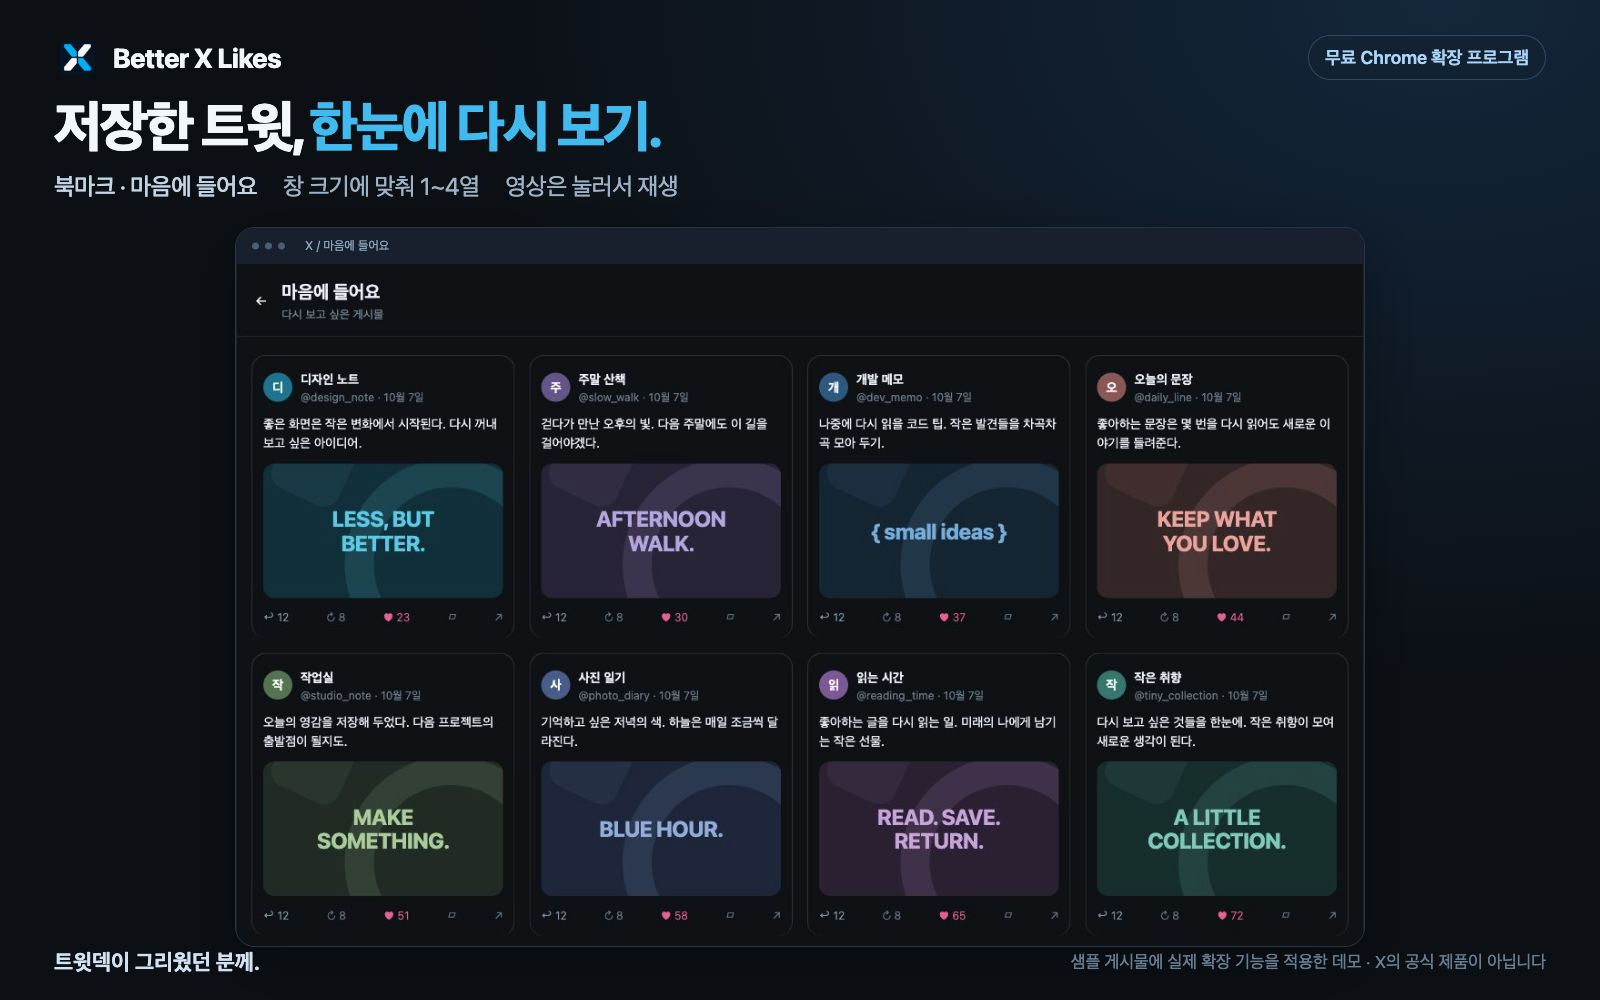
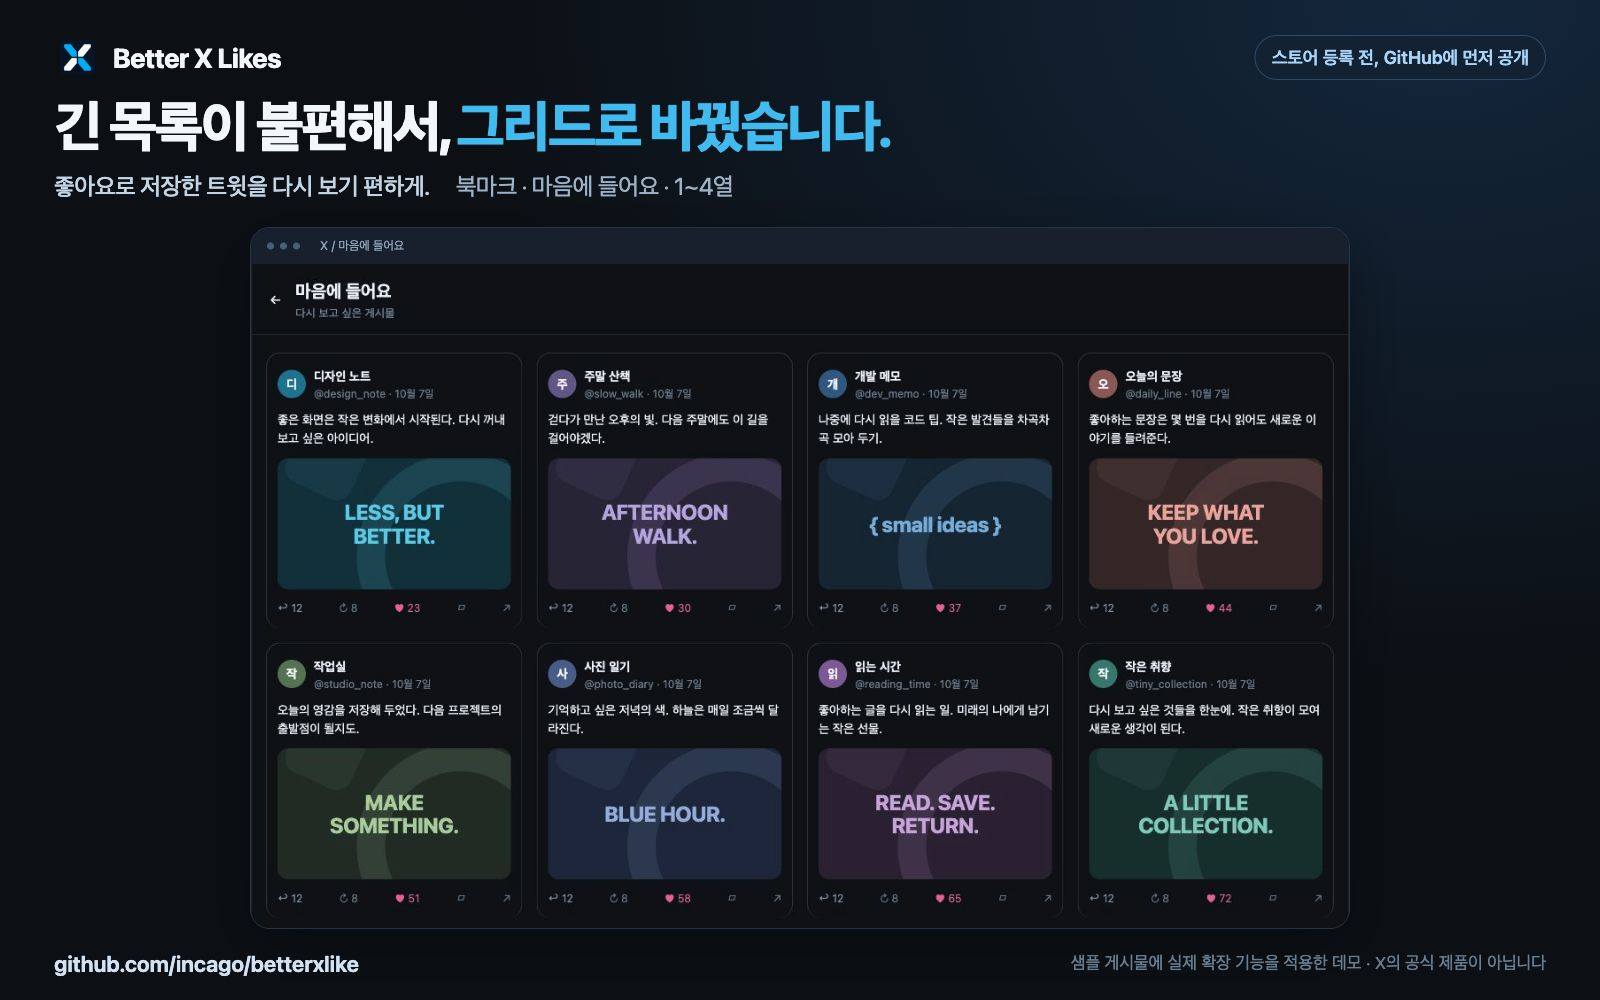
Focus preview announcement on motivation and GitHub sharing

diff --git a/marketing/x-launch/index.html b/marketing/x-launch/index.html
@@ -1,7 +1,7 @@
 <!doctype html>
 <html lang="ko">
 <meta charset="utf-8">
-<title>Better X Likes — X 출시 소개 이미지</title>
+<title>Better X Likes — GitHub 사전 공개 소개 이미지</title>
 <style>
 *{box-sizing:border-box}body{margin:0;background:#090e16;color:#f4f8fc;font-family:-apple-system,BlinkMacSystemFont,"Apple SD Gothic Neo",sans-serif}
 .artboard{width:1600px;height:1000px;padding:34px 54px;position:relative;overflow:hidden;background:radial-gradient(ellipse at 90% 0,#142b45 0,transparent 48%),#090e16}
@@ -9,7 +9,7 @@
 h1{margin:13px 0 10px;font-size:56px;line-height:1.14;letter-spacing:-2.5px;font-weight:750}h1 span{color:#4dc1f4}.sub{font-size:24px;line-height:1.5;color:#a8bacf;margin:0;letter-spacing:-.4px}
 .window{border:1px solid #2c3b4e;border-radius:20px;overflow:hidden;box-shadow:0 18px 60px #0005;background:#080c12}.bar{height:36px;display:flex;align-items:center;gap:6px;padding:0 16px;background:#182333;color:#98aec6;font-size:12px}.dot{width:7px;height:7px;border-radius:50%;background:#526b84}.address{margin-left:14px}
 .window img{width:100%;display:block}.footer{position:absolute;left:54px;right:54px;bottom:24px;display:flex;align-items:center;justify-content:space-between;color:#73899f;font-size:17px}.footer strong{font-size:22px;color:#d8e6f5;font-weight:650}
-.hero .window{width:1130px;margin:23px auto 0}.hero .sub{display:flex;gap:26px}.hero .sub b{color:#cad9e9;font-weight:500}
+.hero .window{width:1100px;margin:23px auto 0}.hero .sub{display:flex;gap:26px}.hero .sub b{color:#cad9e9;font-weight:500}
 .comparison h1,.responsive h1{margin-top:20px}.comparison .panels{display:grid;grid-template-columns:450px 1fr;gap:32px;margin-top:32px}
 .label{display:flex;align-items:center;gap:14px;margin-bottom:14px;font-size:24px;font-weight:700;letter-spacing:-.6px}.label small{color:#8dabc8;font-size:18px;font-weight:500}.label .blue{color:#4dc1f4}
 .comparison .window{height:648px}.comparison .window img{min-height:100%;object-fit:cover;object-position:left top}.comparison .window.grid img{min-height:0}.comparison .sub{font-size:23px}
@@ -18,32 +18,32 @@ h1{margin:13px 0 10px;font-size:56px;line-height:1.14;letter-spacing:-2.5px;font
 .responsive .caption{margin-top:14px;color:#a8bacf;font-size:18px}.responsive .window.small img{width:100%}
 </style>
 <main class="artboard hero" data-slide="hero">
- <div class="brand"><img src="/icons/icon-128.png" alt="">Better X Likes<span class="badge">무료 Chrome 확장 프로그램</span></div>
- <h1>저장한 트윗, <span>한눈에 다시 보기.</span></h1>
- <p class="sub"><b>북마크 · 마음에 들어요</b><span>창 크기에 맞춰 1~4열</span><span>영상은 눌러서 재생</span></p>
+ <div class="brand"><img src="/icons/icon-128.png" alt="">Better X Likes<span class="badge">스토어 등록 전, GitHub에 먼저 공개</span></div>
+ <h1>긴 목록이 불편해서, <span>그리드로 바꿨습니다.</span></h1>
+ <p class="sub"><b>좋아요로 저장한 트윗을 다시 보기 편하게.</b><span>북마크 · 마음에 들어요 · 1~4열</span></p>
  <div class="window"><div class="bar"><i class="dot"></i><i class="dot"></i><i class="dot"></i><span class="address">X / 마음에 들어요</span></div><img src="grid.png" alt="마음에 들어요 게시물 8개를 4열 그리드로 표시한 데모"></div>
- <div class="footer"><strong>트윗덱이 그리웠던 분께.</strong><span>샘플 게시물에 실제 확장 기능을 적용한 데모 · X의 공식 제품이 아닙니다</span></div>
+ <div class="footer"><strong>github.com/incago/betterxlike</strong><span>샘플 게시물에 실제 확장 기능을 적용한 데모 · X의 공식 제품이 아닙니다</span></div>
 </main>
 <main class="artboard comparison" data-slide="comparison" hidden>
- <div class="brand"><img src="/icons/icon-128.png" alt="">Better X Likes<span class="badge">보기 방식을 바꾸는 작은 차이</span></div>
- <h1>길게 쌓인 목록을, <span>넓게 펼쳐 보기.</span></h1>
- <p class="sub">같은 게시물도 여러 개를 함께 보면 다시 찾기가 편해집니다.</p>
+ <div class="brand"><img src="/icons/icon-128.png" alt="">Better X Likes<span class="badge">스토어 등록 전, GitHub에 먼저 공개</span></div>
+ <h1>저장은 쉬운데, <span>다시 보기는 불편해서.</span></h1>
+ <p class="sub">북마크와 마음에 들어요를 한 줄에 여러 개씩 볼 수 있도록 만들었습니다.</p>
  <div class="panels">
   <div><div class="label">기본 목록<small>하나씩 스크롤</small></div><div class="window"><div class="bar"><span>마음에 들어요 · 기본 보기</span></div><img src="native.png" alt="같은 샘플 게시물이 한 줄에 하나씩 쌓인 기본 목록"></div></div>
   <div><div class="label"><span class="blue">그리드 보기</span><small>한 줄에 최대 4개 · 우측 사이드바 숨김</small></div><div class="window grid"><div class="bar"><span>마음에 들어요 · Better X Likes</span></div><img src="grid.png" alt="같은 샘플 게시물을 4열로 보여주는 그리드"></div></div>
  </div>
- <div class="footer"><strong>북마크와 마음에 들어요에 적용됩니다.</strong><span>동일한 샘플 게시물로 비교한 데모</span></div>
+ <div class="footer"><strong>github.com/incago/betterxlike</strong><span>동일한 샘플 게시물로 비교한 데모</span></div>
 </main>
 <main class="artboard responsive" data-slide="responsive" hidden>
- <div class="brand"><img src="/icons/icon-128.png" alt="">Better X Likes<span class="badge">Chrome 창 크기에 맞춰 자동 조절</span></div>
- <h1>창을 줄이면, <span>그리드도 함께.</span></h1>
- <p class="sub">넓은 창에서는 최대 4열, 좁아질수록 3열 → 2열 → 1열로 바뀝니다.</p>
+ <div class="brand"><img src="/icons/icon-128.png" alt="">Better X Likes<span class="badge">스토어 등록 전, GitHub에 먼저 공개</span></div>
+ <h1>창 크기가 달라도, <span>읽기 편하게.</span></h1>
+ <p class="sub">큰 창에서는 여러 개를, 작은 창에서는 글을 읽기 편한 너비로.</p>
  <div class="panels">
   <div><div class="label"><span class="number">4</span>열<small>넓은 창</small></div><div class="window"><div class="bar"><span>마음에 들어요 · 넓은 Chrome 창</span></div><img src="grid.png" alt="4열로 표시된 게시물"></div><p class="caption">더 많은 게시물을 한눈에</p></div>
   <div><div class="label"><span class="number">2</span>열<small>중간 창</small></div><div class="window"><div class="bar"><span>중간 너비</span></div><img src="two-columns.png" alt="2열로 표시된 게시물"></div><p class="caption">공간에 맞는 균형</p></div>
   <div><div class="label"><span class="number">1</span>열<small>좁은 창</small></div><div class="window small"><div class="bar"><span>좁은 너비</span></div><img src="one-column.png" alt="1열로 표시된 게시물"></div><p class="caption">좁은 창에서도 읽기 편하게</p></div>
  </div>
- <div class="footer"><strong>열 수를 매번 바꿀 필요 없이.</strong><span>각 너비에서 실제 확장 기능을 적용한 샘플 게시물 데모</span></div>
+ <div class="footer"><strong>github.com/incago/betterxlike</strong><span>창 너비에 따라 1~4열 · 실제 확장 기능을 적용한 샘플 게시물 데모</span></div>
 </main>
 <script>
  const selected=new URLSearchParams(location.search).get('slide')||'hero';

diff --git a/marketing/x-launch/README.md b/marketing/x-launch/README.md
@@ -1,28 +1,32 @@
-# Better X Likes — X 출시 소개 자료
+# Better X Likes — GitHub 사전 공개 소개 자료
 
-실제로 스토어에서 설치할 수 있게 된 뒤 사용하는 게시글 초안입니다. 게시하거나 예약하지 않았습니다.
+Chrome 웹 스토어 등록 전에 GitHub 저장소와 함께 소개하는 게시글 초안입니다. 좋아요로 저장한 트윗을 긴 세로 목록에서 다시 보기 불편해 만들었다는 계기를 중심으로 작성했습니다.
 
 ## 추천 게시 방법
 
-첫 게시글에는 `post-ko.txt`를 붙이고 이미지 `01-launch.png`, `02-before-after.png`를 순서대로 첨부합니다. 반응형 동작도 강조하려면 `03-responsive.png`를 세 번째 이미지로 첨부합니다. 세 이미지 모두 1600×1000 PNG입니다.
+첫 게시글에는 `post-ko.txt`를 붙이고 `01-launch.png`, `02-before-after.png`를 순서대로 첨부합니다. 창 크기에 따른 보기까지 보여주려면 `03-responsive.png`를 세 번째로 첨부합니다. 세 이미지 모두 1600×1000 PNG입니다.
 
-`{{STORE_URL}}`은 공개된 Chrome 웹 스토어의 실제 설치 링크로 바꿉니다. 개발자 대시보드 링크를 사용하지 않습니다. 로그인하지 않은 창에서도 설치 페이지가 열리는지 확인한 뒤 게시합니다. 이미지에는 버튼처럼 보이는 설치 링크나 QR 코드를 넣지 않아 링크 수정 없이 사용할 수 있습니다.
+GitHub 주소는 https://github.com/incago/betterxlike 로 이미 들어 있습니다. 스토어 설치 링크를 기다리거나 교체할 필요가 없습니다. 모든 이미지에도 저장소 주소와 사전 공개 표기를 넣었습니다.
 
-`reply-ko.txt`는 사용 방법과 개인정보 처리 설명을 덧붙이는 답글입니다. 한국어 이미지 설명은 `alt-text-ko.txt`에 있습니다. `post-en.txt`와 `post-ja.txt`는 별도 언어 게시글용 번역이며, 이 자료의 이미지 문구는 한국어입니다.
+`reply-ko.txt`는 저장소의 현재 기능과 수동 설치 안내, 피드백 요청을 덧붙이는 답글입니다. 첫 게시글은 만든 계기와 핵심 기능을 중심으로, 자세한 기능은 답글로 나눴습니다.
 
-## 소개하는 기능과 버전
+`story-ko.md`는 글자 수 제한 없이 소개할 때 쓰는 긴 설명입니다. `post-en.txt`와 `post-ja.txt`는 영어·일본어 게시글용 번역이고, 이미지 문구는 한국어입니다. 이미지의 접근성 설명은 `alt-text-ko.txt`에 있습니다.
 
-저장된 제출 기록은 1.4.1 심사 제출, 개선 버전은 1.5.9 로컬 준비 상태입니다. 첫 출시용 문구·이미지는 1.4.1에서도 제공하는 북마크·마음에 들어요, 1~4열 반응형 그리드, 우측 사이드바 숨김, 직접 영상 재생에 맞췄습니다. 홈·검색·프로필의 그리드나 다국어 UI는 첫 출시 소개에 포함하지 않았습니다.
+소개글에 다른 제품의 향수나 스토어에서 설치할 수 있다는 표현을 사용하지 않았습니다. 이 자료를 만들면서 X에 게시하거나 예약하지 않았습니다.
 
-`post-update-ko.txt`는 개선 버전이 실제로 공개된 뒤 사용하는 별도 업데이트 소개입니다. 첫 1.4.1 승인 게시글과 섞지 않습니다.
+## 소개하는 기능과 설치
 
-브랜드 이미지는 사용자가 선택한 새 X 그리드 아이콘입니다. 현재 제출된 1.4.1 패키지에는 이전 아이콘이 들어 있으므로 첫 공개본의 스토어 아이콘과 다를 수 있습니다. 스토어 등록정보나 심사 제출은 변경하지 않았습니다.
+GitHub의 1.5.9 소스를 기준으로 작성했습니다. 핵심은 북마크·마음에 들어요의 1~4열 반응형 그리드입니다. 두 화면은 처음 설치 시 기본으로 그리드가 켜집니다. 홈·검색·프로필은 팝업에서 원하는 화면만 선택할 수 있습니다. 영상은 직접 재생하고 그리드에서는 우측 사이드바를 숨깁니다.
+
+현재 수동 설치 방법은 저장소 README에 있습니다. 저장소를 다운로드 또는 복제하고, Chrome의 `chrome://extensions`에서 개발자 모드를 켠 뒤 압축 해제된 확장 프로그램으로 프로젝트 폴더를 불러옵니다. 자세한 단계는 저장소 안내를 따릅니다.
+
+실제 Chrome 웹 스토어 제출 상태나 등록정보는 변경하지 않았습니다.
 
 ## 화면 출처
 
-개인 계정이나 저장된 게시물을 촬영하지 않았습니다. `demo.html`의 창작 샘플 게시물에 현재 저장소의 실제 확장 CSS/JS(1.5.9)를 적용하고 브라우저로 촬영했습니다. 기본 보기와 그리드 비교는 같은 게시물을 사용합니다. 각 이미지에 데모 표기를 넣었습니다. 4열·2열·1열은 실제 렌더링 결과로 확인했습니다.
+개인 계정이나 저장된 게시물을 촬영하지 않았습니다. `demo.html`의 창작 샘플 게시물에 현재 저장소의 실제 확장 CSS/JS를 적용하고 브라우저로 촬영했습니다. 기본 보기와 그리드 비교는 같은 게시물을 사용합니다. 각 이미지에 데모 표기를 넣었습니다. 4열·2열·1열은 실제 렌더링 결과로 확인했습니다.
 
-`grid.png`, `native.png`, `two-columns.png`, `one-column.png`는 합성 전 원본 화면 캡처입니다. `index.html`은 세 가지 소개 이미지의 편집 가능한 HTML 원본입니다. 사진이나 실제 X 화면으로 오인하게 설명하지 않습니다.
+`grid.png`, `native.png`, `two-columns.png`, `one-column.png`는 합성 전 원본 화면 캡처입니다. `index.html`은 소개 이미지의 편집 가능한 HTML 원본입니다.
 
 ## 재생성
 
@@ -32,10 +36,10 @@
 - 기본 목록: `http://127.0.0.1:4174/i/history/likes?mode=native&width=990`
 - 2열: `http://127.0.0.1:4174/i/history/likes?width=788`
 - 1열: `http://127.0.0.1:4174/i/history/likes?width=488`
-- 소개 이미지: `http://127.0.0.1:4174/marketing/x-launch/index.html?slide=hero`
+- 대표 이미지: `http://127.0.0.1:4174/marketing/x-launch/index.html?slide=hero`
 - 비교 이미지: 위 URL의 `slide=comparison`
 - 반응형 이미지: 위 URL의 `slide=responsive`
 
-브라우저의 실제 너비를 각 데모 너비에 맞춰 촬영합니다. 소개용 HTML의 출력 크기는 1600×1000입니다.
+각 데모의 창 너비를 맞춰 촬영합니다. 소개용 HTML 출력 크기는 1600×1000입니다.
 
-게시글 길이는 URL을 23자로 계산하고 한글·일본어의 가중치를 반영해 확인했습니다. [X 공식 문자 수 안내](https://docs.x.com/fundamentals/counting-characters)를 참고했습니다. 문구를 추가하면 게시창에서 다시 확인합니다.
+짧은 게시글은 URL을 23자로 계산하고 한글·일본어의 가중치를 반영해 일반 게시글 길이 안에 맞췄습니다. [X 공식 문자 수 안내](https://docs.x.com/fundamentals/counting-characters)를 참고했습니다. 문구를 추가하면 게시창에서 다시 확인합니다.

diff --git a/marketing/x-launch/story-ko.md b/marketing/x-launch/story-ko.md
@@ -1,0 +1,15 @@
+# Better X Likes를 만든 이유
+
+마음에 드는 트윗을 발견하면 좋아요를 눌러 저장해 두곤 합니다. 나중에 그 목록을 다시 보는데, 게시물이 하나씩 세로로 길게 이어져 있어 살펴보기가 불편했습니다.
+
+큰 화면을 쓰고 있는데도 한 번에 볼 수 있는 게시물이 적었습니다. “한 줄에 여러 개를 볼 수 있으면 좋겠다”는 생각에서 Better X Likes를 만들기 시작했습니다.
+
+북마크와 마음에 들어요를 창 너비에 맞는 1~4열 그리드로 보여주는 Chrome 확장 프로그램입니다. 넓은 창에서는 최대 네 개를 함께 보고, 창을 줄이면 글을 읽기 편하도록 열 수도 줄어듭니다.
+
+여러 게시물을 함께 보는 화면에 맞춰 영상은 직접 눌렀을 때만 재생하도록 했고, 오른쪽 사이드바를 숨겨 게시물에 쓸 공간도 넓혔습니다. 홈·검색·프로필은 원하는 화면에만 그리드를 켤 수 있습니다.
+
+제가 느낀 작은 불편을 해결하려고 시작한 도구입니다. 비슷한 방식으로 트윗을 저장하고 다시 보는 분들에게도 도움이 될까 싶어, Chrome 웹 스토어 등록 전에 GitHub에 먼저 공개합니다.
+
+코드와 수동 설치 방법은 저장소에 있습니다. 써 보시고 불편한 점이나 개선 아이디어를 알려주세요.
+
+[GitHub — incago/betterxlike](https://github.com/incago/betterxlike)
